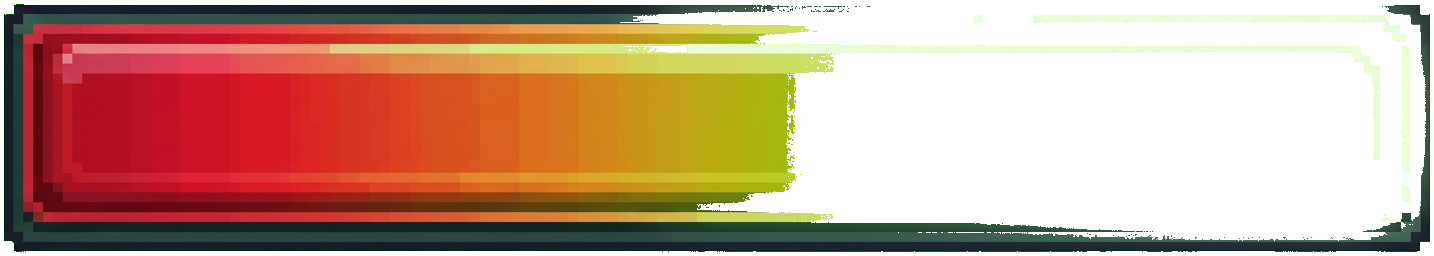
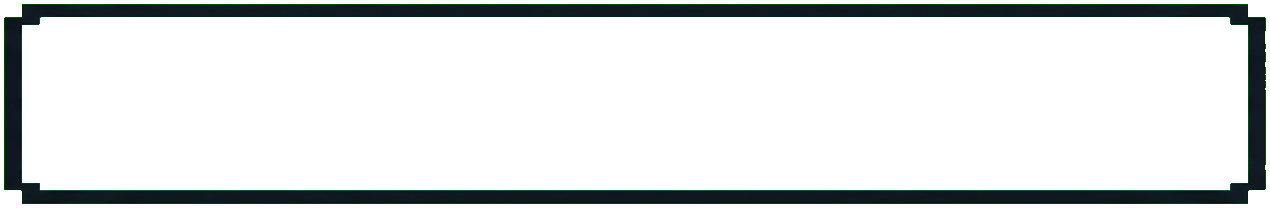
Boss血条v3重写 + 世界Boss属性翻倍/回血/吸血 + 修蝙蝠异常回血
1. BossHealthBarUI重写：弃用Image.Type.Filled（精灵边界+pivot不可靠导致掉血方向/比例全错），改用Image+直接控制fill RectTransform宽度，固定像素宽度500px不超屏，多Boss垂直堆叠。

2. 重新生成BossBarBg/BossBarFill精灵图，bg用Sliced+6px边框。

3. WorldBossBase新增字段：doubledHealthMax=1000,doubledAttack=100（关底Boss×2），worldBossHealPctPerSecond=0.05（+5%/s），worldBossLifestealPct=0.001（0.1%吸血）。OnEnable自动应用×2 + 5%回血。

4. WorldBossBase.OnCollisionEnter覆写附加0.1%吸血（碰撞伤害×0.1%回血到Boss）。

5. BossBat.naturalHealPctPerSecond 0.02→0（修吸血鬼Boss异常回血）。

diff --git a/Assets/C#/WorldBoss/BossHealthBarUI.cs b/Assets/C#/WorldBoss/BossHealthBarUI.cs
@@ -3,20 +3,24 @@ using UnityEngine;
 using UnityEngine.UI;
 
 /// <summary>
-/// UI Boss 血条系统：在屏幕 overlay 上为所有激活的 Boss 显示血条。
-/// 替代 WorldBossHealthBar——使用精灵图血条，视觉更好。
-/// 血条宽 = 屏幕 1/2，居中，时间文字下方；多 Boss 垂直排列；左侧实时头像。
+/// UI Boss 血条系统：屏幕 overlay 上为所有激活的 Boss 显示血条。
+///
+/// 关键设计变更（v3）：
+/// - 不再使用 Image.Type.Filled（精灵边界 + pivot 不可靠导致掉血方向/比例全错）
+/// - 改用 Image + 直接控制 fill RectTransform 宽度 = fillAmount * barWidthPixels
+/// - 血条使用固定合理宽度（barWidthPixels），不依赖 Screen.width 避免超屏
+/// - 多个 Boss 垂直堆叠在时间文字下方
 /// </summary>
 public class BossHealthBarUI : MonoBehaviour
 {
     public static BossHealthBarUI Instance { get; private set; }
 
-    [Header("布局")]
-    public float barWidthRatio = 0.5f;
-    public float barHeight     = 28f;
-    public float avatarSize    = 44f;
-    public float spacing       = 6f;
-    public float topOffset     = 60f;
+    [Header("布局（固定像素，不依赖屏幕尺寸）")]
+    public float barWidthPixels = 500f;   // 血条宽
+    public float barHeight      = 24f;    // 血条高
+    public float avatarSize     = 44f;    // 头像尺寸
+    public float rowSpacing     = 8f;     // 多条血条间距
+    public float topOffset      = 60f;    // 距屏幕顶偏移
 
     private RectTransform _container;
     private readonly List<BossEntry> _entries = new List<BossEntry>();
@@ -27,6 +31,7 @@ public class BossHealthBarUI : MonoBehaviour
         public SpriteRenderer bossSR;
         public RectTransform root;
         public Image avatar;
+        public RectTransform fillRt;
         public Image fill;
         public bool dead;
     }
@@ -56,11 +61,12 @@ public class BossHealthBarUI : MonoBehaviour
         _container.anchorMax = new Vector2(0.5f, 1f);
         _container.pivot     = new Vector2(0.5f, 1f);
         _container.anchoredPosition = new Vector2(0f, -topOffset);
-        _container.sizeDelta = new Vector2(Screen.width * barWidthRatio + avatarSize + 10f, 400f);
+        _container.sizeDelta = new Vector2(avatarSize + 8f + barWidthPixels, 500f);
     }
 
     void LateUpdate()
     {
+        // 清理已死 Boss
         for (int i = _entries.Count - 1; i >= 0; i--)
         {
             var e = _entries[i];
@@ -72,12 +78,15 @@ public class BossHealthBarUI : MonoBehaviour
             }
 
             float maxHp = Mathf.Max(1, e.boss.healthmax);
-            float pct = Mathf.Clamp01((float)e.boss.health / maxHp);
-            e.fill.fillAmount = pct;
+            float pct  = Mathf.Clamp01((float)e.boss.health / maxHp);
 
-            // 颜色：高血绿 → 低血红
-            e.fill.color = pct > 0.5f ? Color.Lerp(Color.yellow, Color.green, (pct - 0.5f) * 2f)
-                         : Color.Lerp(Color.red, Color.yellow, pct * 2f);
+            // 直接控制 fill 宽度 → 从右往左掉血
+            float w = barWidthPixels * pct;
+            e.fillRt.sizeDelta = new Vector2(w, e.fillRt.sizeDelta.y);
+            // fill 颜色：低血红 → 中血黄 → 高血绿
+            e.fill.color = pct > 0.5f
+                ? Color.Lerp(new Color(1f, 0.85f, 0.1f), new Color(0.2f, 1f, 0.3f), (pct - 0.5f) * 2f)
+                : Color.Lerp(new Color(1f, 0.2f, 0.2f), new Color(1f, 0.85f, 0.1f), pct * 2f);
 
             // 实时头像
             if (e.bossSR != null && e.bossSR.sprite != null)
@@ -87,13 +96,15 @@ public class BossHealthBarUI : MonoBehaviour
                 e.dead = true;
         }
 
+        // 垂直堆叠
         float y = 0f;
         for (int i = 0; i < _entries.Count; i++)
         {
             var e = _entries[i];
             if (e.root == null) continue;
+            float rowH = avatarSize + 6f;
             e.root.anchoredPosition = new Vector2(0f, -y);
-            y += barHeight + spacing + avatarSize * 0.15f;
+            y += rowH + rowSpacing;
         }
     }
 
@@ -131,16 +142,15 @@ public class BossHealthBarUI : MonoBehaviour
         if (_container == null) BuildContainer();
         if (_container == null) return;
 
-        float barW = Screen.width * barWidthRatio;
-        float totalW = avatarSize + 6f + barW;
+        float rowH = avatarSize + 6f;
 
-        // 条目根
+        // 条目根（垂直堆叠用）
         var rootGo = new GameObject("BossBar_" + boss.rolename, typeof(RectTransform));
         rootGo.transform.SetParent(_container, false);
         var rootRt = rootGo.GetComponent<RectTransform>();
         rootRt.anchorMin = rootRt.anchorMax = new Vector2(0.5f, 1f);
         rootRt.pivot = new Vector2(0.5f, 1f);
-        rootRt.sizeDelta = new Vector2(totalW, Mathf.Max(barHeight, avatarSize));
+        rootRt.sizeDelta = new Vector2(avatarSize + 8f + barWidthPixels, rowH);
         rootRt.anchoredPosition = Vector2.zero;
 
         // 头像背景（深色底片）
@@ -167,35 +177,33 @@ public class BossHealthBarUI : MonoBehaviour
         avatarImg.preserveAspect = true;
         avatarImg.raycastTarget = false;
 
-        // 血条背景图（精灵）
-        float barX = avatarSize + 6f;
+        // 血条背景图（精灵 + Sliced）
+        float barX = avatarSize + 8f;
         var bgGo = new GameObject("BarBg", typeof(RectTransform));
         bgGo.transform.SetParent(rootGo.transform, false);
         var bgRt = bgGo.GetComponent<RectTransform>();
         bgRt.anchorMin = bgRt.anchorMax = new Vector2(0f, 0.5f);
         bgRt.pivot = new Vector2(0f, 0.5f);
-        bgRt.sizeDelta = new Vector2(barW, barHeight);
+        bgRt.sizeDelta = new Vector2(barWidthPixels, barHeight);
         bgRt.anchoredPosition = new Vector2(barX, 0f);
         var bgImg = bgGo.AddComponent<Image>();
         bgImg.sprite = Resources.Load<Sprite>("UI/BossBarBg");
         bgImg.type = Image.Type.Sliced;
         bgImg.raycastTarget = false;
 
-        // 填充图（精灵）——关键：fillOrigin=Left 确保从右往左掉血
+        // 血量填充 — width 由代码控制（不用 Filled 裁剪）
         var fillGo = new GameObject("BarFill", typeof(RectTransform));
         fillGo.transform.SetParent(bgGo.transform, false);
         var fillRt = fillGo.GetComponent<RectTransform>();
-        fillRt.anchorMin = Vector2.zero;
-        fillRt.anchorMax = Vector2.one;
-        fillRt.offsetMin = Vector2.zero;
-        fillRt.offsetMax = Vector2.zero;
+        fillRt.anchorMin = new Vector2(0f, 0f);
+        fillRt.anchorMax = new Vector2(0f, 1f);
+        fillRt.pivot = new Vector2(0f, 0.5f);
+        fillRt.anchoredPosition = new Vector2(3f, 0f);  // 内边距
+        fillRt.sizeDelta = new Vector2(barWidthPixels - 6f, -6f);
         var fillImg = fillGo.AddComponent<Image>();
         fillImg.sprite = Resources.Load<Sprite>("UI/BossBarFill");
-        fillImg.type = Image.Type.Filled;
-        fillImg.fillMethod = Image.FillMethod.Horizontal;
-        fillImg.fillOrigin = (int)Image.OriginHorizontal.Left;
-        fillImg.fillAmount = 1f;
-        fillImg.color = Color.green;
+        fillImg.type = Image.Type.Sliced;
+        fillImg.color = new Color(0.2f, 1f, 0.3f, 1f);
         fillImg.raycastTarget = false;
 
         // 初始头像
@@ -205,12 +213,13 @@ public class BossHealthBarUI : MonoBehaviour
 
         _entries.Add(new BossEntry
         {
-            boss = boss,
-            bossSR = sr,
-            root = rootRt,
-            avatar = avatarImg,
-            fill = fillImg,
-            dead = false,
+            boss    = boss,
+            bossSR  = sr,
+            root    = rootRt,
+            avatar  = avatarImg,
+            fill    = fillImg,
+            fillRt  = fillRt,
+            dead    = false,
         });
     }
 }

diff --git a/Assets/C#/WorldBoss/WorldBossBase.cs b/Assets/C#/WorldBoss/WorldBossBase.cs
@@ -19,7 +19,14 @@ public class WorldBossBase : enemy
     public float       activateRange = 15f;
     public FactionType faction       = FactionType.Mushroom;
 
-    [Header("自然回血")]
+    [Header("世界Boss属性（v2：原关底Boss属性×2）")]
+    [Tooltip("激活时自动应用：原关底Boss血量×2 = 1000，攻击×2 = 100；世界Boss额外：+5%/s自然回血 + 0.1%吸血")]
+    public int   doubledHealthMax     = 1000;
+    public int   doubledAttack         = 100;
+    [Range(0f, 0.2f)] public float worldBossHealPctPerSecond = 0.05f; // +5%/s 回血
+    [Range(0f, 0.05f)] public float worldBossLifestealPct = 0.001f;  // 0.1% 吸血
+
+    [Header("自然回血（兼容旧字段）")]
     [Tooltip("每秒按 healthmax 的百分比自然回血；被亡者领域操控（MindControlled 挂载）后短路失效。仅激活后生效。")]
     public float naturalHealPctPerSecond = 0.02f;
     private float _healAccum;
@@ -38,8 +45,13 @@ public class WorldBossBase : enemy
 
         _ani = GetComponent<Animator>();
 
-        // 世界Boss不受难度倍率影响，保持 prefab 原始数值
-        // （如需倍率可在子类 override）
+        // 世界Boss属性应用：原关底Boss属性×2
+        // prefab 里保留原值（用于退回关底使用），世界Boss激活时强制覆盖为 ×2
+        healthmax = doubledHealthMax;
+        health    = healthmax;
+        atk       = doubledAttack;
+        // 世界Boss额外能力：+5%/s 自然回血
+        naturalHealPctPerSecond = worldBossHealPctPerSecond;
 
         // UI Boss 血条由 BossHealthBarUI 管理（激活后注册），不再挂世界空间小血条
     }
@@ -91,6 +103,43 @@ public class WorldBossBase : enemy
         ToastManager.Show($"世界Boss已激活！");
         Debug.Log($"[WorldBoss] {faction} 世界Boss激活");
         BossHealthBarUI.Register(this);
+    }
+
+    // 接触伤害：覆写以附加 0.1% 吸血
+    protected override void OnCollisionEnter(Collision collision)
+    {
+        if (rolestate == state.dead) return;
+        if (_mindControlledFlag) return;
+        if (GetComponent<MindControlled>() != null) return;
+        if (!collision.gameObject.CompareTag("Player")) { base.OnCollisionEnter(collision); return; }
+
+        Player p = collision.gameObject.GetComponent<Player>();
+        if (p == null || p.health <= 0) return;
+        if (p.IsDashInvincibleActive) return;
+        // 闪避
+        if (p.EVA > Random.value * 100f)
+        {
+            MissNumber.Show(atknumber, collision.transform.position);
+            return;
+        }
+        // 减伤
+        int dmg = Mathf.Max(1, (int)(atk - p.def));
+        p.health -= dmg;
+        if (DamageNumberSettings.Visible)
+        {
+            GameObject number = Instantiate(atknumber, collision.transform.position, default);
+            number.transform.GetChild(0).GetComponent<TextMeshProUGUI>().text = dmg.ToString();
+        }
+        AudioManager.PlaySfx(AudioManager.SfxKey.Hit);
+        p.startturnred();
+        if (p.health <= 0) p.death();
+
+        // 0.1% 吸血
+        if (worldBossLifestealPct > 0f)
+        {
+            int heal = Mathf.Max(1, Mathf.RoundToInt(dmg * worldBossLifestealPct));
+            health = Mathf.Min(healthmax, health + heal);
+        }
     }
 
     public override void Destroy1()

diff --git a/Assets/C#/BossBat.cs b/Assets/C#/BossBat.cs
@@ -28,7 +28,7 @@ public class BossBat : enemy
 
     [Header("自然回血")]
     [Tooltip("每秒按 healthmax 的百分比自然回血。被亡者领域操控后失效（MindControlled 一旦挂上，FixedUpdate 短路，回血不再 tick）。")]
-    public float naturalHealPctPerSecond = 0.02f; // 默认 2%/s
+    public float naturalHealPctPerSecond = 0f; // 关底蝙蝠Boss无回血（避免异常回血，吸血能力由世界Boss继承）
 
     [HideInInspector] public battleUI battleUI;
     // 累积小数血量，避免 RoundToInt 在 0.02×3000=60 这种整除场景之外丢精度